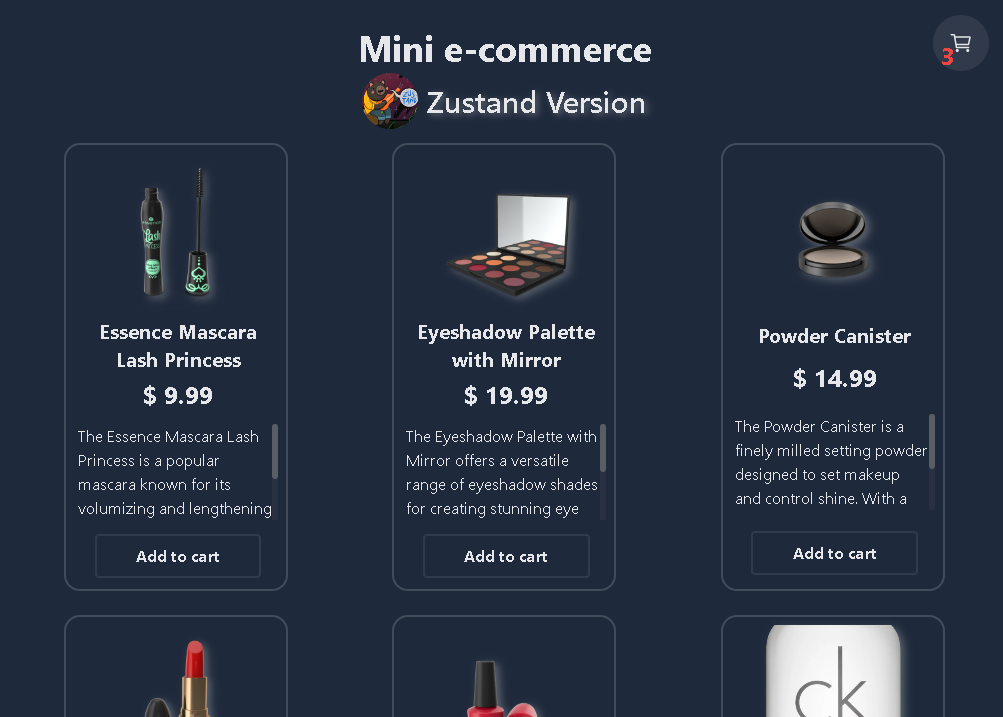
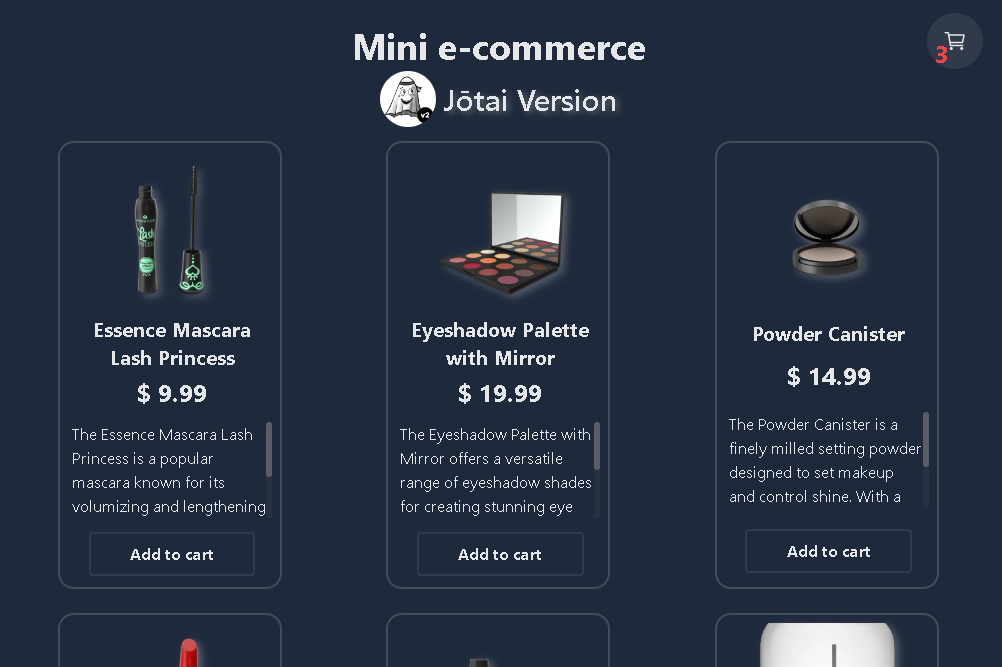
Td002 - Readme updated

diff --git a/README.md b/README.md
@@ -1,4 +1,4 @@
-# State Managements (series) - Zustand
+# State Managements (series) - Jōtai
 
 ![screenshot](./readme.png)
 
@@ -22,39 +22,58 @@
 
 <div style="text-align:center">
 
-## [ZUSTAND](https://github.com/pmndrs/zustand)
+## [Jōtai](https://jotai.org/)
 
 </div>
 
 ![zustand web screenshot](./readme-z.png)
 
-## Getting Started (modify)
+## Getting Started
 
 Elementary use:
 
-### First create a store
+### First create atoms
 
 ```javascript
-import { create } from "zustand";
+import { atom } from "jotai";
 
-const useBearStore = create((set) => ({
-  bears: 0,
-  increasePopulation: () => set((state) => ({ bears: state.bears + 1 })),
-  removeAllBears: () => set({ bears: 0 }),
-}));
+const countAtom = atom(0);
 ```
 
-### Then bind your components, and that's it!
+### Use atoms
+
+#### Then use atoms within React components to read or write state.
+
+Like a React useState: const [state, setState] = useState()
 
 ```javascript
-function BearCounter() {
-  const bears = useBearStore((state) => state.bears);
-  return <h1>{bears} around here ...</h1>;
-}
+import { useAtom } from 'jotai'
+import { animeAtom } from './store/atomsStore'
 
-function Controls() {
-  const increasePopulation = useBearStore((state) => state.increasePopulation);
-  return <button onClick={increasePopulation}>one up</button>;
+const AnimeApp = () => {
+  const [anime, setAnime] = useAtom(animeAtom)
+
+return (
+    <>
+      <ul>
+        {anime.map((item) => (
+          <li key={item.title}>{item.title}</li>
+        ))}
+      </ul>
+      <button onClick={() => {
+        setAnime((anime) => [
+          ...anime,
+          {
+            title: 'Cowboy Bebop',
+            year: 1998,
+            watched: false
+          }
+        ])
+      }}>
+        Add Cowboy Bebop
+      </button>
+    <>
+  )
 }
 ```
 
